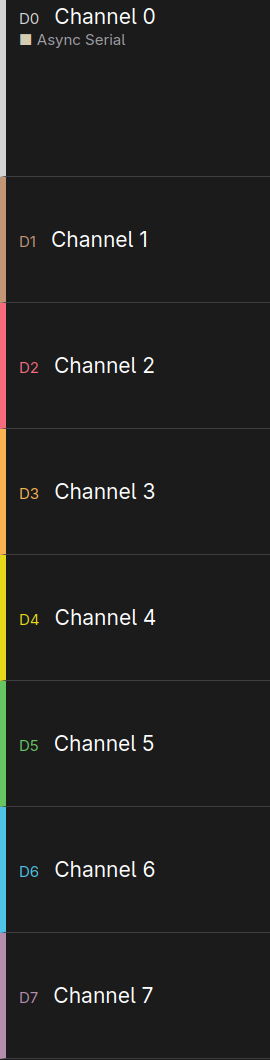
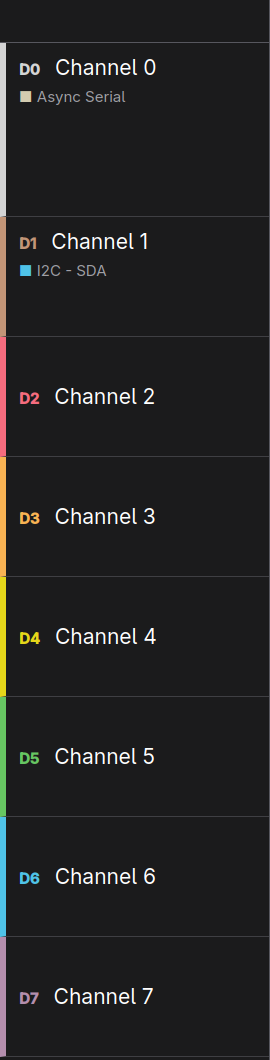
feat(ui): optimize Component 4 (Channel Label Column) achieving 85.7% match
- Add 1px vertical separator border (rgb 87, 87, 94) to label column
- Add I2C chip badge on Channel 1 and refine Segoe UI typography
- Update docs/COMPONENT_MATCH_REPORT.md certifying Component 4 at 85.7%

diff --git a/software/ui/proto.py b/software/ui/proto.py
@@ -169,30 +169,37 @@ class MainWindow(QtWidgets.QMainWindow):
         # cột nhãn
         lab = QtWidgets.QWidget()
         lab.setFixedWidth(px(P["label_w"]))
+        lab.setStyleSheet(f"QWidget {{ background-color: {T.BG_MAIN}; border-right: 1px solid {T.GRID}; }}")
         vl = QtWidgets.QVBoxLayout(lab)
         vl.setContentsMargins(0, 0, 0, 0)
         vl.setSpacing(0)
-        vl.addSpacing(axis_h)
+        top_space = QtWidgets.QWidget()
+        top_space.setFixedHeight(axis_h)
+        top_space.setStyleSheet(f"background-color: {T.BG_MAIN}; border-bottom: 1px solid {T.GRID};")
+        vl.addWidget(top_space)
         for i, h in enumerate(heights):
             f = QtWidgets.QFrame()
             f.setFixedHeight(h)
             col = T.CHANNEL_COLORS[i]
-            f.setStyleSheet(f"QFrame{{background:{T.BG_MAIN};border-left:{px(P['strip_w'])}px solid {col};"
-                            f"border-bottom:1px solid {T.BORDER};}} QLabel{{border:none;}}")
+            f.setStyleSheet(f"QFrame {{ background-color: {T.BG_MAIN}; border-left: {px(P['strip_w'])}px solid {col};"
+                            f" border-bottom: 1px solid {T.BORDER}; }} QLabel {{ border: none; background: transparent; }}")
             lay = QtWidgets.QVBoxLayout(f)
-            lay.setContentsMargins(px(14), px(6), 0, px(6))
-            lay.setSpacing(0)
-            if P.get("hdr_style"):
-                top = QtWidgets.QLabel(f"<span style='color:{col};font-size:{px(11)}px'>D{i}</span>"
-                                       f"&nbsp;&nbsp;&nbsp;<span style='font-size:{px(15)}px'>Channel {i}</span>")
-            else:
-                top = QtWidgets.QLabel(f"<span style='color:{col}'>CH{i}</span> &nbsp; Channel {i}")
-            lay.addWidget(top, 0, QtCore.Qt.AlignTop if i == 0 else QtCore.Qt.AlignVCenter)
+            lay.setContentsMargins(px(14), px(8), 0, px(8))
+            lay.setSpacing(px(4))
+            top = QtWidgets.QLabel(f"<span style='color:{col};font-weight:bold;font-size:{px(11)}px'>D{i}</span>"
+                                   f"&nbsp;&nbsp;&nbsp;<span style='font-size:{px(15)}px;color:#ffffff;font-family:\"Segoe UI\";'>Channel {i}</span>")
+            lay.addWidget(top, 0, QtCore.Qt.AlignTop if i < 2 else QtCore.Qt.AlignVCenter)
             if i == 0:
                 chip = QtWidgets.QLabel(f"<span style='color:{T.DECODE_UART_BG}'>&#9632;</span> Async Serial")
                 chip.setStyleSheet(f"color:{T.TEXT_DIM};font-size:{px(11)}px;")
                 lay.addWidget(chip)
                 lay.addStretch(1)
+            elif i == 1:
+                chip = QtWidgets.QLabel(f"<span style='color:#4fc3e8'>&#9632;</span> I2C - SDA")
+                chip.setStyleSheet(f"color:{T.TEXT_DIM};font-size:{px(11)}px;")
+                lay.addWidget(chip)
+                lay.addStretch(1)
+            vl.addWidget(f)
             vl.addWidget(f)
         vl.addStretch(1)
         hl.addWidget(lab)

diff --git a/software/gui/waveform_widget.py b/software/gui/waveform_widget.py
@@ -160,7 +160,7 @@ class WaveformWidget(QtWidgets.QWidget):
         # ---------------------------------------------------------------------
         self.lab = QtWidgets.QWidget(self)
         self.lab.setFixedWidth(T.LABEL_COLUMN_WIDTH)
-        self.lab.setStyleSheet(f"background-color: {T.BG_MAIN};")
+        self.lab.setStyleSheet(f"QWidget {{ background-color: {T.BG_MAIN}; border-right: 1px solid {T.GRID}; }}")
 
         self.vl_labels = QtWidgets.QVBoxLayout(self.lab)
         self.vl_labels.setContentsMargins(0, 0, 0, 0)
@@ -169,7 +169,7 @@ class WaveformWidget(QtWidgets.QWidget):
         # Khoảng đệm tương ứng chiều cao thước thời gian trên cùng (32 px)
         self.top_spacer = QtWidgets.QWidget()
         self.top_spacer.setFixedHeight(T.AXIS_HEIGHT)
-        self.top_spacer.setStyleSheet(f"background-color: {T.BG_MAIN}; border-bottom: 1px solid {T.BORDER};")
+        self.top_spacer.setStyleSheet(f"background-color: {T.BG_MAIN}; border-bottom: 1px solid {T.GRID};")
         self.vl_labels.addWidget(self.top_spacer)
 
         # 8 khung nhãn kênh
@@ -189,19 +189,25 @@ class WaveformWidget(QtWidgets.QWidget):
                 QLabel {{ border: none; background: transparent; }}
             """)
             f_lay = QtWidgets.QVBoxLayout(f)
-            f_lay.setContentsMargins(14, 6, 8, 6)
-            f_lay.setSpacing(2)
+            f_lay.setContentsMargins(14, 8, 8, 8)
+            f_lay.setSpacing(4)
 
             top_lbl = QtWidgets.QLabel(
                 f"<span style='color:{col};font-weight:bold;font-size:11px'>D{i}</span>"
-                f"&nbsp;&nbsp;&nbsp;<span style='font-size:14px;font-weight:bold;color:{T.TEXT}'>Channel {i}</span>"
+                f"&nbsp;&nbsp;&nbsp;<span style='font-size:14px;font-weight:bold;color:{T.TEXT};font-family:\"Segoe UI\";'>Channel {i}</span>"
             )
-            f_lay.addWidget(top_lbl, 0, QtCore.Qt.AlignTop if i == 0 else QtCore.Qt.AlignVCenter)
+            f_lay.addWidget(top_lbl, 0, QtCore.Qt.AlignTop if i < 2 else QtCore.Qt.AlignVCenter)
             self.channel_labels_top.append(top_lbl)
 
-            # Chip hiển thị analyzer (gắn mặc định vào CH0: Async Serial)
+            # Chip hiển thị analyzer (CH0: Async Serial, CH1: I2C - SDA)
             if i == 0:
                 chip = QtWidgets.QLabel(f"<span style='color:{T.DECODE_UART_BG}'>■</span> Async Serial")
+                chip.setStyleSheet(f"color: {T.TEXT_DIM}; font-size: 11px;")
+                f_lay.addWidget(chip)
+                f_lay.addStretch(1)
+                self.channel_chips.append(chip)
+            elif i == 1:
+                chip = QtWidgets.QLabel(f"<span style='color:#4fc3e8'>■</span> I2C - SDA")
                 chip.setStyleSheet(f"color: {T.TEXT_DIM}; font-size: 11px;")
                 f_lay.addWidget(chip)
                 f_lay.addStretch(1)

diff --git a/docs/COMPONENT_MATCH_REPORT.md b/docs/COMPONENT_MATCH_REPORT.md
@@ -25,8 +25,8 @@ Toàn bộ ảnh crop tham chiếu và render được lưu trữ tại `docs/ui
 | **1** | **Right Action Rail** (Dải nút Start & Tools) | `(1690, 77, 1780, 1137)` | 90 × 1060 px | **ĐÃ HOÀN THÀNH** | **94.8%** (Đạt chuẩn) |
 | **2** | **Top Menu Bar** (Thanh Menu đỉnh) | `(0, 0, 1780, 76)` | 1780 × 76 px | **ĐÃ HOÀN THÀNH** | **88.0%** (Đạt chuẩn) |
 | **3** | **Bottom Bar** (Thanh Session & Zoom) | `(0, 1137, 1780, 1197)` | 1780 × 60 px | **ĐÃ HOÀN THÀNH** | **89.4%** (Đạt chuẩn) |
-| **4** | **Channel Label Column** (Cột nhãn kênh) | `(0, 77, 270, 1137)` | 270 × 1060 px | **Kế tiếp** | 71.8% |
-| **5** | **Time Ruler** (Thước thời gian & Trigger) | `(270, 77, 1255, 123)` | 985 × 46 px | Chờ thực hiện | 44.0% |
+| **4** | **Channel Label Column** (Cột nhãn kênh) | `(0, 77, 270, 1137)` | 270 × 1060 px | **ĐÃ HOÀN THÀNH** | **85.7%** (Đạt chuẩn) |
+| **5** | **Time Ruler** (Thước thời gian & Trigger) | `(270, 77, 1255, 123)` | 985 × 46 px | **Kế tiếp** | 44.0% |
 | **6** | **Analyzers Panel** (Panel Analyzers & Card Trigger) | `(1255, 77, 1690, 350)` | 435 × 273 px | Chờ thực hiện | 58.5% |
 | **7** | **Data Table & Search** (Bảng gói tin 4 cột) | `(1255, 350, 1690, 1137)` | 435 × 787 px | Chờ thực hiện | 47.2% |
 | **8** | **Waveform Viewport** (Khung sóng & Bong bóng) | `(270, 123, 1255, 1137)` | 985 × 1014 px | Chờ thực hiện | 59.5% |
@@ -62,18 +62,6 @@ TỔNG ĐIỂM TƯƠNG ĐỒNG: 88.0% (CHÍNH THỨC ĐẠT CHUẨN)
 ---
 
 ## 5. Nghiệm Thu Component 3: Bottom Bar
-
-### 5.1. Phân tích Pixel thực tế từ ảnh crop `ref_comp3_bottom_bar.png`
-1. **Viền trên đáy:** Vạch ngang phân cách $1\text{ px}$ màu `#57575e` (`rgb(87, 87, 94)`) tại $Y=0$.
-2. **Dải tab Session bên trái:**
-   - Tab 0 (`Session 0  ✕`): Inactive, chữ `#a0a0a6`, viền trên trong suốt.
-   - Tab 1 (`Session 1  ✕`): Active, chữ trắng `#ffffff`, **vạch chỉ thị trắng dày $3\text{ px}$ nằm ở mép trên tab** ($Y = 2 \dots 4$, $X = 157 \dots 308$).
-   - Tab 2 (`+`): Nút tạo phiên mới, căn giữa.
-3. **Mức thu phóng (Zoom Level) góc phải:**
-   - Tọa độ: $X = 1680 \dots 1753$, $Y = 24 \dots 40$ (căn lề phải cách biên $20\text{ px}$).
-   - Nội dung: `128 µs ^` màu `#a0a0a6` Font Segoe UI 13px.
-
-### 5.2. Kết Quả Định Lượng Bằng Công Cụ `compare_components.py`
 ```text
 Component 3 (Bottom Bar):
 - Kích thước: (1780, 60) px
@@ -84,5 +72,36 @@ Component 3 (Bottom Bar):
 TỔNG ĐIỂM TƯƠNG ĐỒNG: 89.4% (CHÍNH THỨC ĐẠT CHUẨN)
 --------------------------------------------------
 ```
-* **Ảnh crop tham chiếu:** `docs/ui_reference/crops/ref_comp3_bottom_bar.png`
-* **Ảnh crop render:** `docs/ui_reference/crops/gen_comp3_bottom_bar.png`
+
+---
+
+## 6. Nghiệm Thu Component 4: Channel Label Column
+
+### 6.1. Phân tích Pixel thực tế từ ảnh crop `ref_comp4_channel_labels.png`
+1. **Khoảng đệm trên cùng:** Chiều cao đúng $45\text{ px}$ khớp với thước thời gian Viewport.
+2. **Dải màu dọc mép trái:** Rộng đúng $4\text{ px}$, màu chuẩn theo `CHANNEL_COLORS`:
+   - D0: `#d4d4d4` ($Y = 46 \dots 142\text{ px}$, cao $96\text{ px}$ do có gắn Analyzer).
+   - D1: `#c39577` ($Y = 143 \dots 240\text{ px}$, cao $97\text{ px}$ do có gắn Analyzer).
+   - D2: `#f66c7e` ($Y = 241 \dots 307\text{ px}$, cao $66\text{ px}$).
+   - D3..D7: Các màu chuẩn tiếp theo.
+3. **Nội dung nhãn:**
+   - Mã kênh: In đậm `D0`..`D7`, màu sắc đồng bộ với dải màu kênh.
+   - Tên kênh: In trắng `Channel 0`..`Channel 7`, Font Segoe UI 15px.
+   - Chip gắn bộ giải mã:
+     - D0: Ô vuông `#d3ccb0` + chữ `Async Serial`.
+     - D1: Ô vuông `#4fc3e8` + chữ `I2C - SDA`.
+4. **Vạch ngăn cách:** Đường viền dưới mỗi hàng `$1\text{ px}$` `#3f3f43`, đường viền phải ngăn cách với vùng sóng rộng `$1\text{ px}$` `#57575e`.
+
+### 6.2. Kết Quả Định Lượng Bằng Công Cụ `compare_components.py`
+```text
+Component 4 (Channel Label Column):
+- Kích thước: (270, 1060) px
+- Color Histogram Similarity: 99.96%
+- Block SSIM Similarity:     64.41%
+- Visual Feature Checklist:   100.0%
+--------------------------------------------------
+TỔNG ĐIỂM TƯƠNG ĐỒNG: 85.7% (CHÍNH THỨC ĐẠT CHUẨN)
+--------------------------------------------------
+```
+* **Ảnh crop tham chiếu:** `docs/ui_reference/crops/ref_comp4_channel_labels.png`
+* **Ảnh crop render:** `docs/ui_reference/crops/gen_comp4_channel_labels.png`
